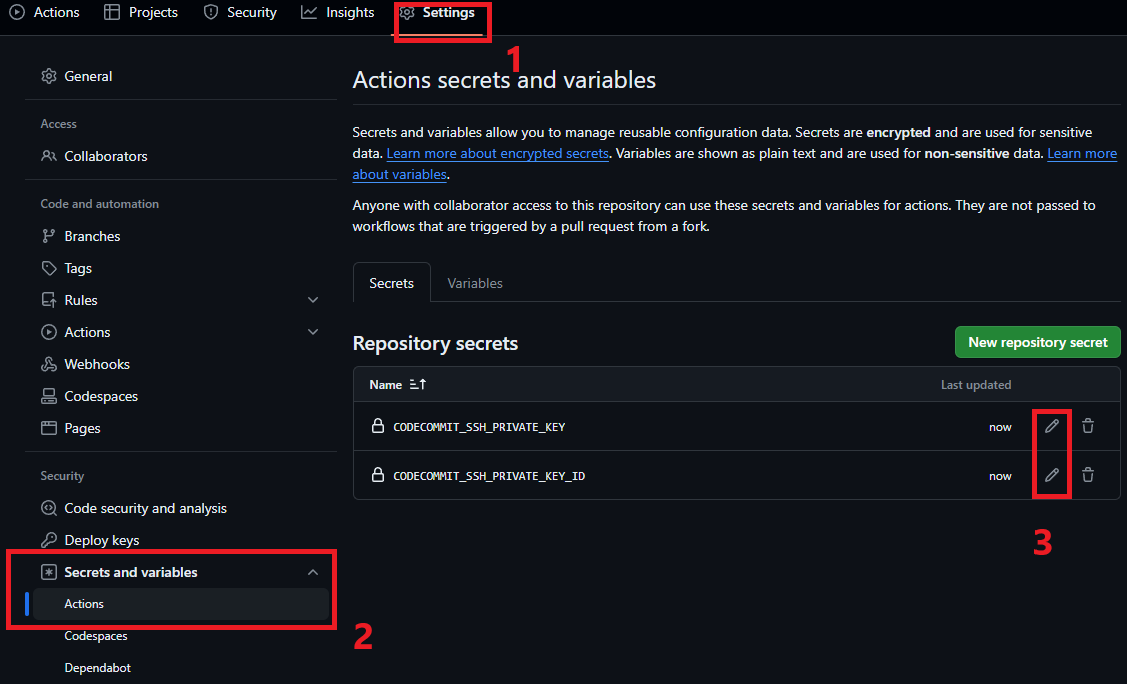
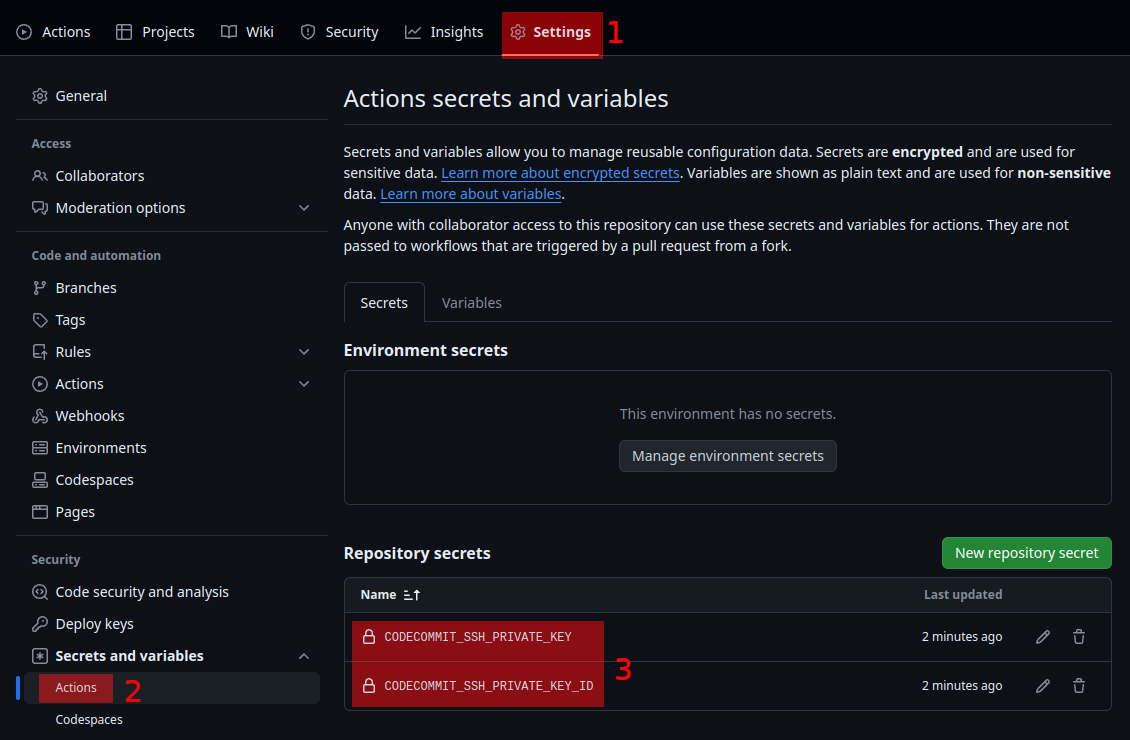
feat: README.md

diff --git a/README.md b/README.md
@@ -1,25 +1,14 @@
 ## Mirror configuration
 
 #### First step
-After executing ```terraform apply``` in the [aws-infra](https://github.com/HarissonNascimento/aws-infra) repository, see the output variable ```codecommit_ssh_key_id``` and copy the value.
+After executing ```terraform apply``` in the [aws-infra](https://github.com/HarissonNascimento/aws-infra) repository.
 
 
-<img src="./.github/images/codecommit-ssh-key-id-example.png">
-
-
-In this repository, go to **Settings > Secrets and variables > Actions > Edit secrets**
+In this repository, go to **Settings > Secrets and variables > Actions** and check if ```CODECOMMIT_SSH_PRIVATE_KEY``` and ```CODECOMMIT_SSH_PRIVATE_KEY_ID``` secrets are set
 
 
 <img src="./.github/images/edit-repository-secret.png">
 
-
-Edit 2 secrets in the repository
-
-
-> | Key | Value |
-> |---|---|
-> | CODECOMMIT_SSH_PRIVATE_KEY | privatekey.pem (RSA Private Key Content file in  [aws-infra](https://github.com/HarissonNascimento/aws-infra/blob/infra/mirrored-aws-project/privatekey.pem)) |
-> | CODECOMMIT_SSH_PRIVATEKEY_ID | APKXXXXXXXXXXXXXXXXX (SSH Key, copied in the previous step) |
 
 #### Second Step
 
@@ -30,7 +19,7 @@ See the output variable ```codecommit_ssh_url``` and copy the value.
 <img src="./.github/images/codecommit-ssh-url-example.png">
 
 
-In the [worflow mirror file](./.github/workflows/mirror.yml) edit the ```target_repo_url``` variable with ```codecommit_ssh_url``` copied value.
+If necessary, in the [worflow mirror file](./.github/workflows/mirror.yml) edit the ```target_repo_url``` variable with ```codecommit_ssh_url``` copied value.
 
 Example:
 
